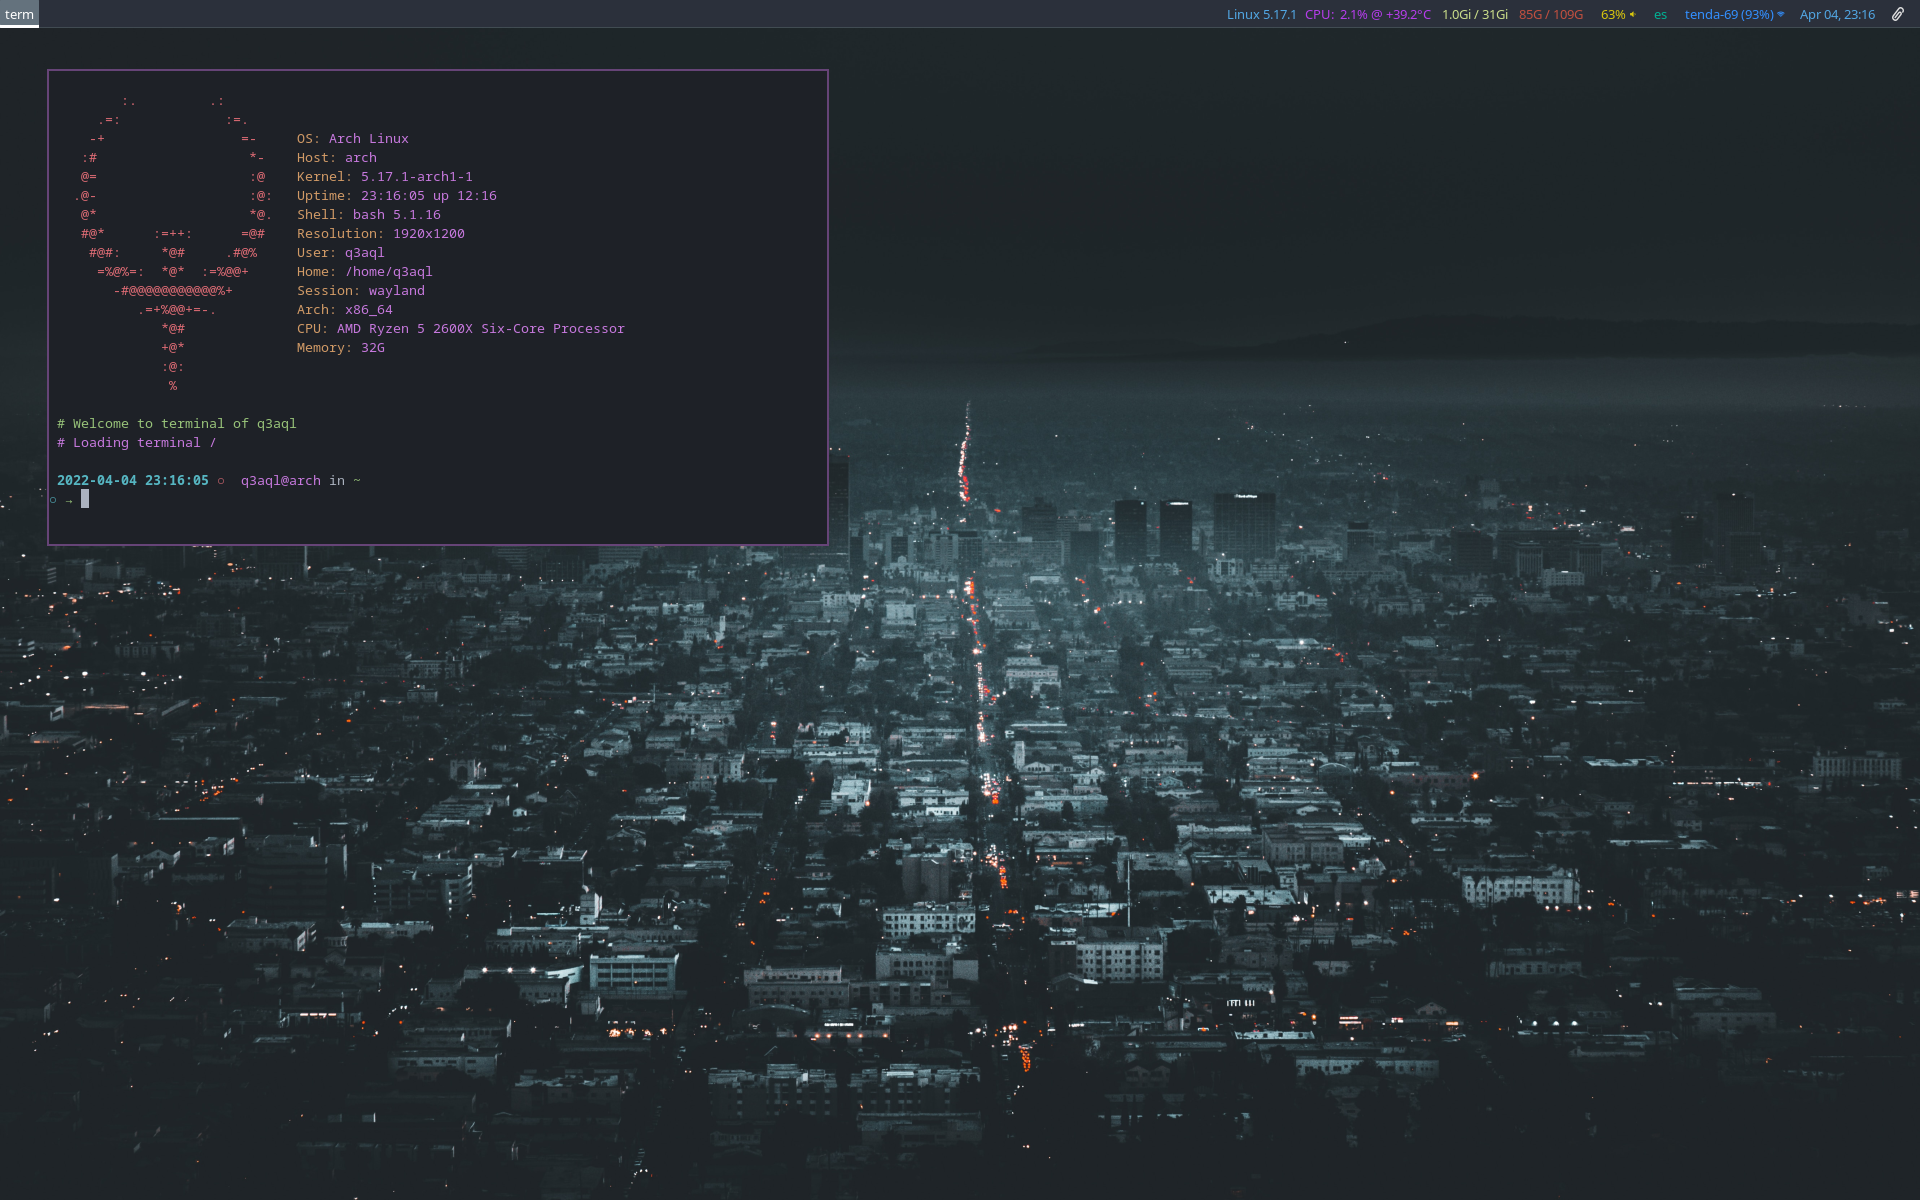
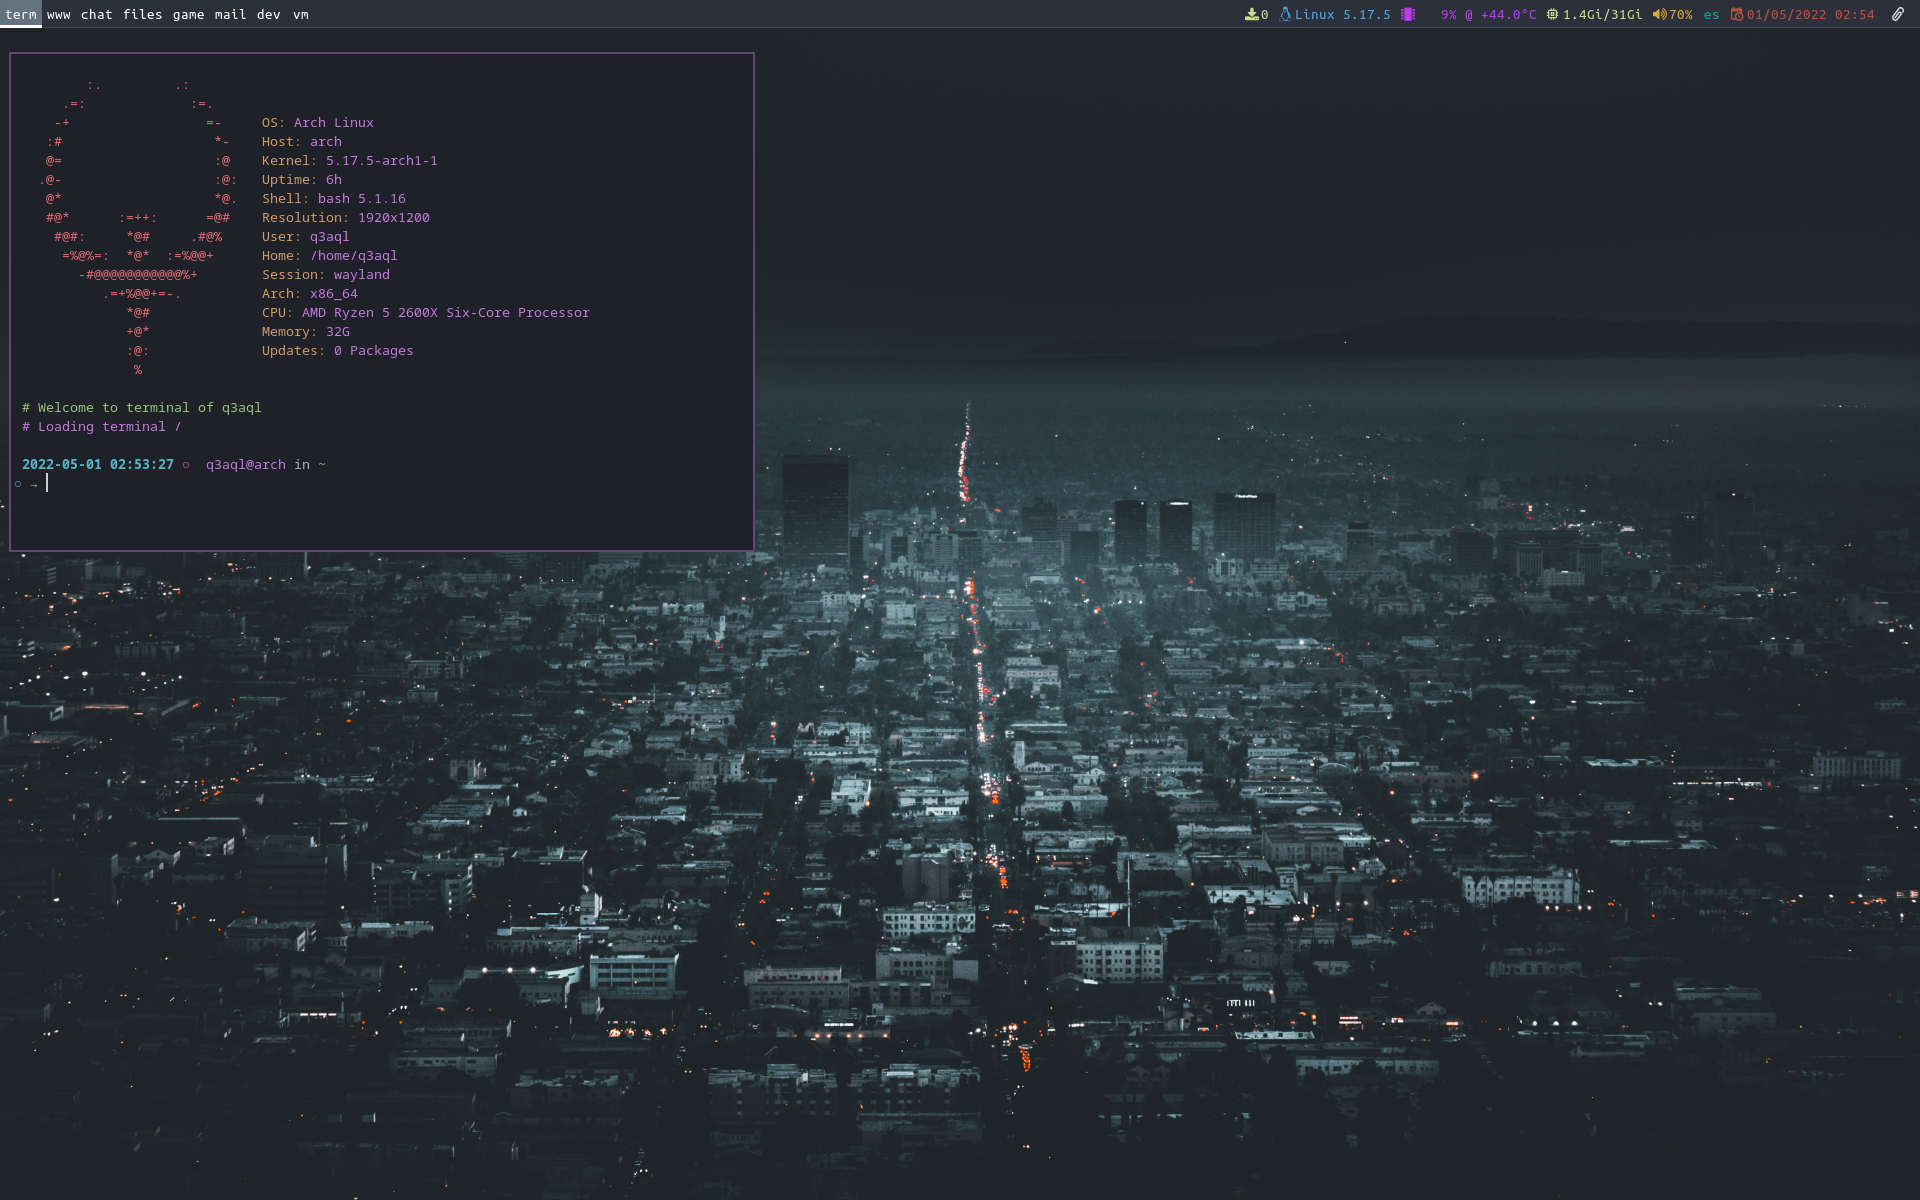
Dotfiles config update (2022-05-01)

diff --git a/.config/waybar/style.css b/.config/waybar/style.css
@@ -2,8 +2,8 @@
     border: none;
     border-radius: 0;
     /* `otf-font-awesome` is required to be installed for icons */
-    font-family: Noto Sans, Roboto, Helvetica, Arial, sans-serif;
-    font-size: 13px;
+    font-family: UbuntuMono Nerd Font, Noto Sans, Roboto, Helvetica, Arial, sans-serif;
+    font-size: 15px;
     min-height: 0;
 }
 
@@ -108,6 +108,11 @@ window#waybar.chromium {
     margin: 0 1px;
 }
 
+#custom-currentdate {
+    color: #C14F3F;
+    margin: 0 1px;
+}
+
 #custom-kernel {
     color: #51A6E3;
     margin: 0 1px;
@@ -120,6 +125,16 @@ window#waybar.chromium {
 
 #custom-memory {
     color: #CADD8A;
+    margin: 0 1px;
+}
+
+#custom-checkupdates {
+    color: #CADD8A;
+    margin: 0 1px;
+}
+
+#custom-getvolume {
+    color: #DDAA33;
     margin: 0 1px;
 }
 

diff --git a/README-sway.md b/README-sway.md
@@ -29,6 +29,7 @@ dotfiles - My tiling sway configuration (for Arch/Devuan/Debian)
       $ cd dotfiles
       $ chmod +x install-config.sh
       $ ./install-config.sh
+      $ cp -rfv ~/.config/waybar/config.icons ~/.config/waybar/config
       ````
 
 ### Configuration:
